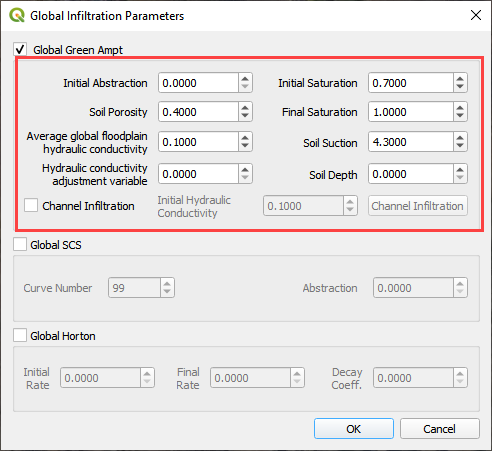
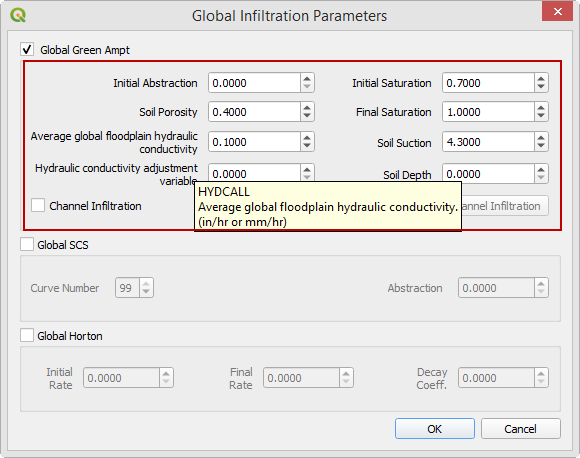
Push to Green-Ampt Branch for remote access.

Changed region(s): [[0.0, 0.0, 1.0, 1.0], [0.3659, 0.7761, 0.6402, 0.8692], [0.3354, 0.6208, 0.3659, 0.6519]]

diff --git a/flo2d/flo2d.py b/flo2d/flo2d.py
@@ -431,12 +431,12 @@ class Flo2D(object):
             parent=self.iface.mainWindow(),
         )
 
-        self.add_action(
-            os.path.join(self.plugin_dir, "img/tailings dam breach.svg"),
-            text=self.tr("Tailings Dam Tool"),
-            callback=self.run_tailingsdambreach,
-            parent=self.iface.mainWindow(),
-        )
+       # self.add_action(
+       #     os.path.join(self.plugin_dir, "img/tailings dam breach.svg"),
+       #     text=self.tr("Tailings Dam Tool"),
+       #     callback=self.run_tailingsdambreach,
+       #     parent=self.iface.mainWindow(),
+       # )
 
         self.add_action(
             os.path.join(self.plugin_dir, "img/landslide.svg"),

diff --git a/docs/user/source/widgets/infiltration-editor/Infiltration Editor.rst b/docs/user/source/widgets/infiltration-editor/Infiltration Editor.rst
@@ -1,13 +1,27 @@
 Infiltration Editor
 ===================
 
+FLO-2D uses three infiltration method.  Green_Ampt, SCS, and Horton infiltration data development is outlined in this
+section.  The INFIL.DAT file contains the infiltration data.  The data can be global (uniform) or spatially variable
+at the grid element resolution.  Global data is applied uniformly to all grid elements and spatially variable data allows
+different parameters to be applied to individual cells or groups of cells.  The different methods for setting up the data
+are defined below.
+
 Green-Ampt
 ----------
 
-The Green-Ampt infiltration editor can add global or spatially variable infiltration data to the INFIL.DAT file.
+The Green-Ampt infiltration editor can add global or spatially variable infiltration data to the INFIL.DAT file.  The
+FLO-2D plugin uses 4 tools for processing Green-Ampt data.
+
+- Global Infiltration Editor
+- Green-Ampt Polygon Schematize
+- Green-Ampt Infiltration Calculator (FCDMC Method 1)
+- Green-Ampt Log Average Infiltration Calculator (Full Green-Ampt Calculator)
 
 Global Uniform Infiltration
 ----------------------------
+
+Global infiltration parameters set a uniform infiltration for the grid system.
 
 1. Global data is set  
    up using the Global Infiltration button.
@@ -17,14 +31,26 @@ Global Uniform Infiltration
 
 .. image:: ../../img/Infiltration-Editor/Infilt002.png
 
+3. Check the Green-Ampt checkbox.
+
+4. Fill the Green-Ampt with uniform infiltration parameters and click OK.
+
+5. Tool tips have information related to the parameters.  Hover the mouse pointer over the variable name to show the
+   tooltip.
+
 .. image:: ../../img/Infiltration-Editor/Infilt003.png
 
-This option will set up uniform infiltration data for every grid element.
+6. This option will set up uniform infiltration data for every grid element.
 
 .. image:: ../../img/Infiltration-Editor/Infilt004.png
 
 Spatial Infiltration Areas User Layer
 --------------------------------------
+
+Simple polygon method
+______________________
+
+.. image:: ../../img/Infiltration-Editor/Infilt004a.png
 
 Spatially variable floodplain infiltration is set by digitizing infiltration polygons into the Infiltration Areas user
 layer. Use the polygon editor to digitize spatially variable infiltration.
@@ -77,6 +103,54 @@ In the following image, the infiltration areas are different for urban, desert a
 
 .. image:: ../../img/Infiltration-Editor/Infilt009.png
 
+
+Multi-Polygon method
+_______________________
+
+This method is more complex and offers some ideas for assembling and building Green-Ampt data from various sources.
+
+1. Use the Curve Number Generator to download and process the soil and landuse data layers.
+
+.. image:: ../../img/Infiltration-Editor/infilt009a.png
+
+
+2. Fill the Curve Number Generator form as shown and use the Run button to process the data.
+
+.. image:: ../../img/Infiltration-Editor/infilt009b.png
+
+
+3. The following layers are added to the map.  It is a good practice to group them into an Infiltration Group and save
+   them to the project folder as a set of \*.tif and \*.shp or \*.gpkg files.
+
+.. image:: ../../img/Infiltration-Editor/infilt009c.png
+
+
+4. The layers can be used for CN processing or they can be joined to Green-Ampt parameters and added to the Infiltration
+   Areas user layer.
+
+5. Green-Ampt parameters can be challenging to find.  Many Department of Transportation and Department of Agriculture
+   have data tables and hydrology manuals.  They are available for any country, province, state, or county that allows
+   the Green-Ampt method to be used for hydrology studies.
+
+Here are some samples of data parameters that are available online.
+https://www.hec.usace.army.mil/confluence/rasdocs/ras1dtechref/6.1/overview-of-optional-capabilities/modeling-precipitation-and-infiltration/green-ampt
+
+.. csv-table:: Table 2-5 Green-Ampt Parameter Estimates and Ranges (HEC-RAS Hydraulic Reference Manual)
+   :file: Green_Ampt_from_HEC-RAS_Manual.csv
+   :widths: 10, 10, 10, 10, 10, 10, 10, 10
+   :header-rows: 1
+
+.. csv-table:: Green-Ampt Loss Rate Parameter Value for Bare Ground (FCDMC Hydrology Manual 2009)
+   :file: Green_Ampt_FCDMC.csv
+   :widths: 10, 10, 10, 10, 10, 10
+   :header-rows: 2
+
+.. csv-table:: Green-Ampt State of Nevada Database. (GreenAndAmpt_STATSGO2.csv)
+   :file: GreenAndAmpt_STATSGO2_truncated.csv
+   :widths: 10, 10, 10, 10, 10, 10, 10, 10 ,10
+   :header-rows: 1
+
+6. The soil properties from Green-Ampt sources can be joined to Soil Polygons using the soil classification
 
 Channel Infiltration
 ---------------------

diff --git a/docs/user/source/index.rst b/docs/user/source/index.rst
@@ -15,14 +15,14 @@ Table of Contents
 
 .. toctree::
    :maxdepth: 1
-   :caption: Setup:
+   :caption: Setup
 
    /installation-instructions/Installation
    /installation-instructions/QGIS General Tools
 
 .. toctree::
    :maxdepth: 1
-   :caption: Plugin Features:
+   :caption: Plugin Features
 
    /plugin-features/Data Storage
    /plugin-features/Plugin Features
@@ -30,7 +30,7 @@ Table of Contents
 
 .. toctree::
    :maxdepth: 1
-   :caption: Toolbar QGIS and FLO-2D:
+   :caption: Toolbar QGIS and FLO-2D
 
    /toolbar/FLO-2D Toolbar
    /toolbar/FLO-2D Settings
@@ -56,7 +56,7 @@ Table of Contents
 
 .. toctree::
    :maxdepth: 1
-   :caption: Widgets (Grid Tools):
+   :caption: Widgets (Grid Tools)
 
    /widgets/grid-tools/Create a Grid
    /widgets/grid-tools/Sample Elevation from Raster
@@ -74,7 +74,7 @@ Table of Contents
 
 .. toctree::
    :maxdepth: 1
-   :caption: Widgets:
+   :caption: Widgets
 
    /widgets/profile-tool/Profile Tool
    /widgets/cross-sections-editor/Cross Sections Editor
@@ -93,12 +93,12 @@ Table of Contents
 
 .. toctree::
    :maxdepth: 1
-   :caption: Post Development Grid Modification:
+   :caption: Post Development Grid Modification
 
    /post-development-grid-modification/Post Development Grid Modification
 
 .. toctree::
    :maxdepth: 1
-   :caption: References:
+   :caption: References
 
    References
